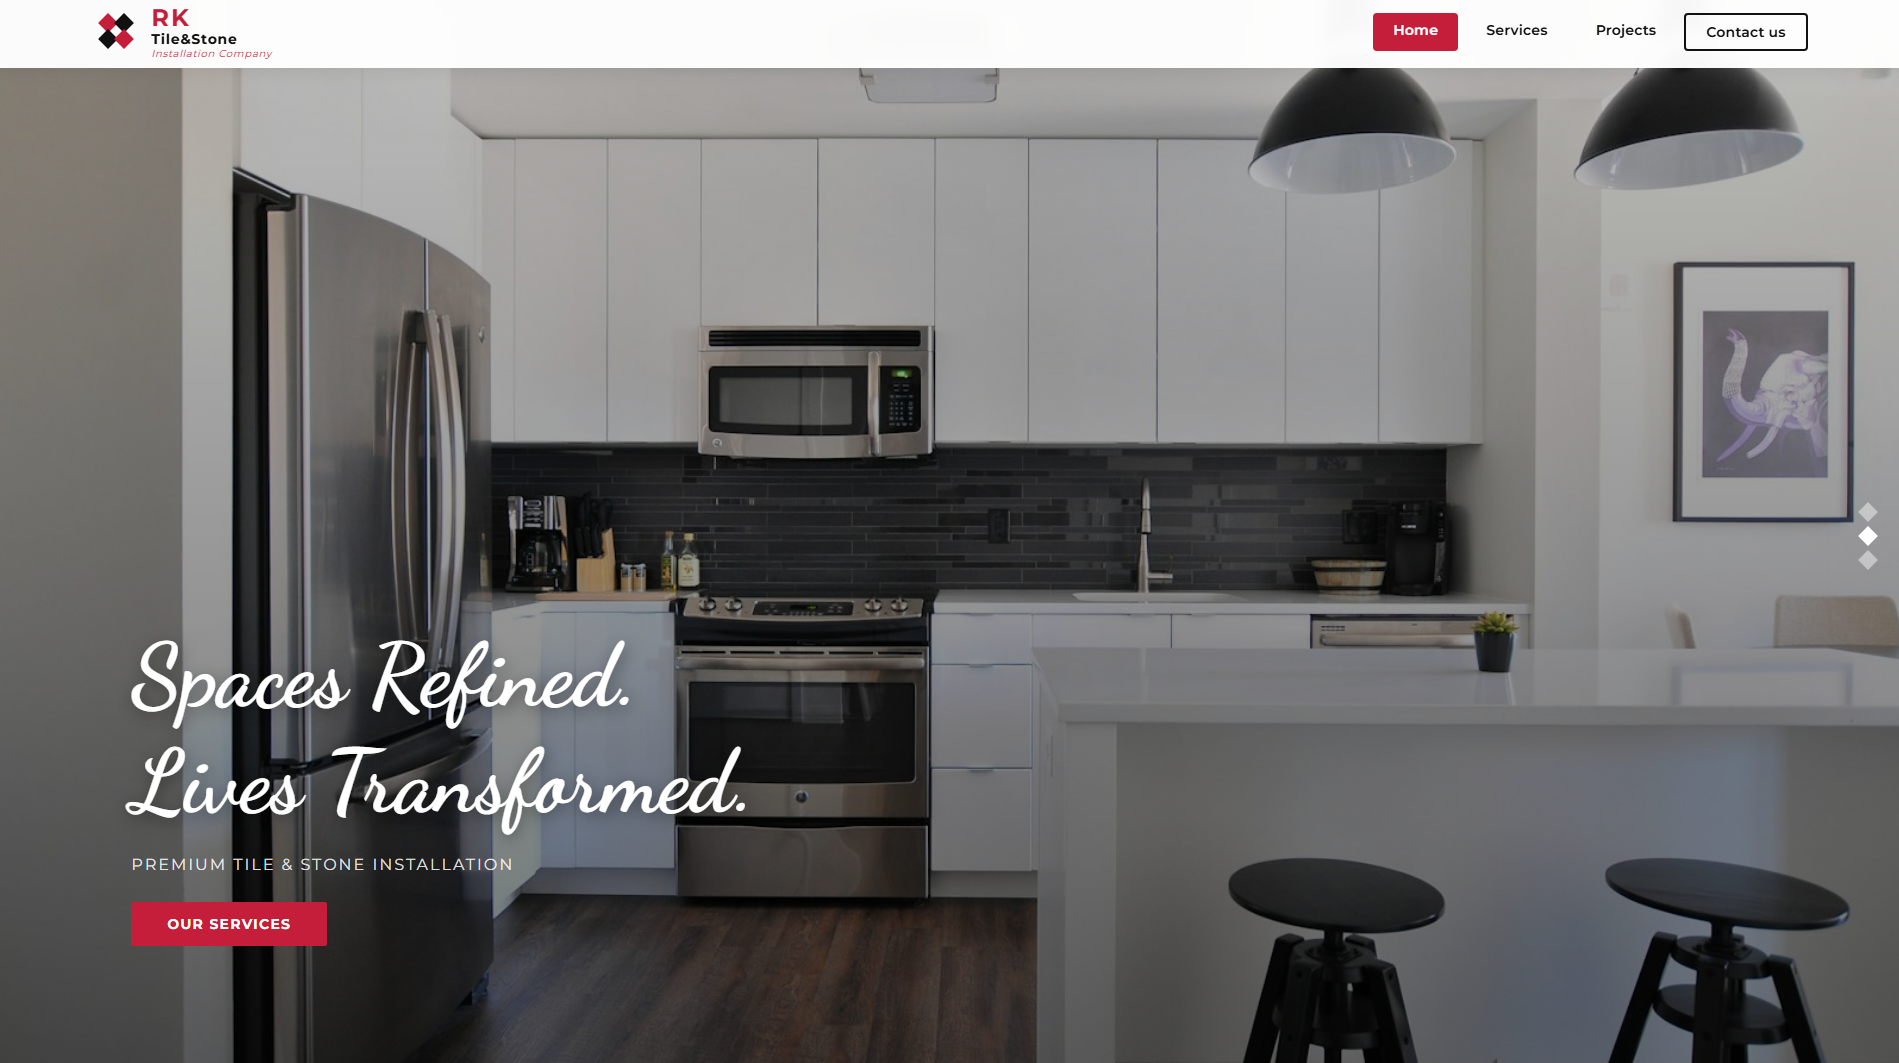
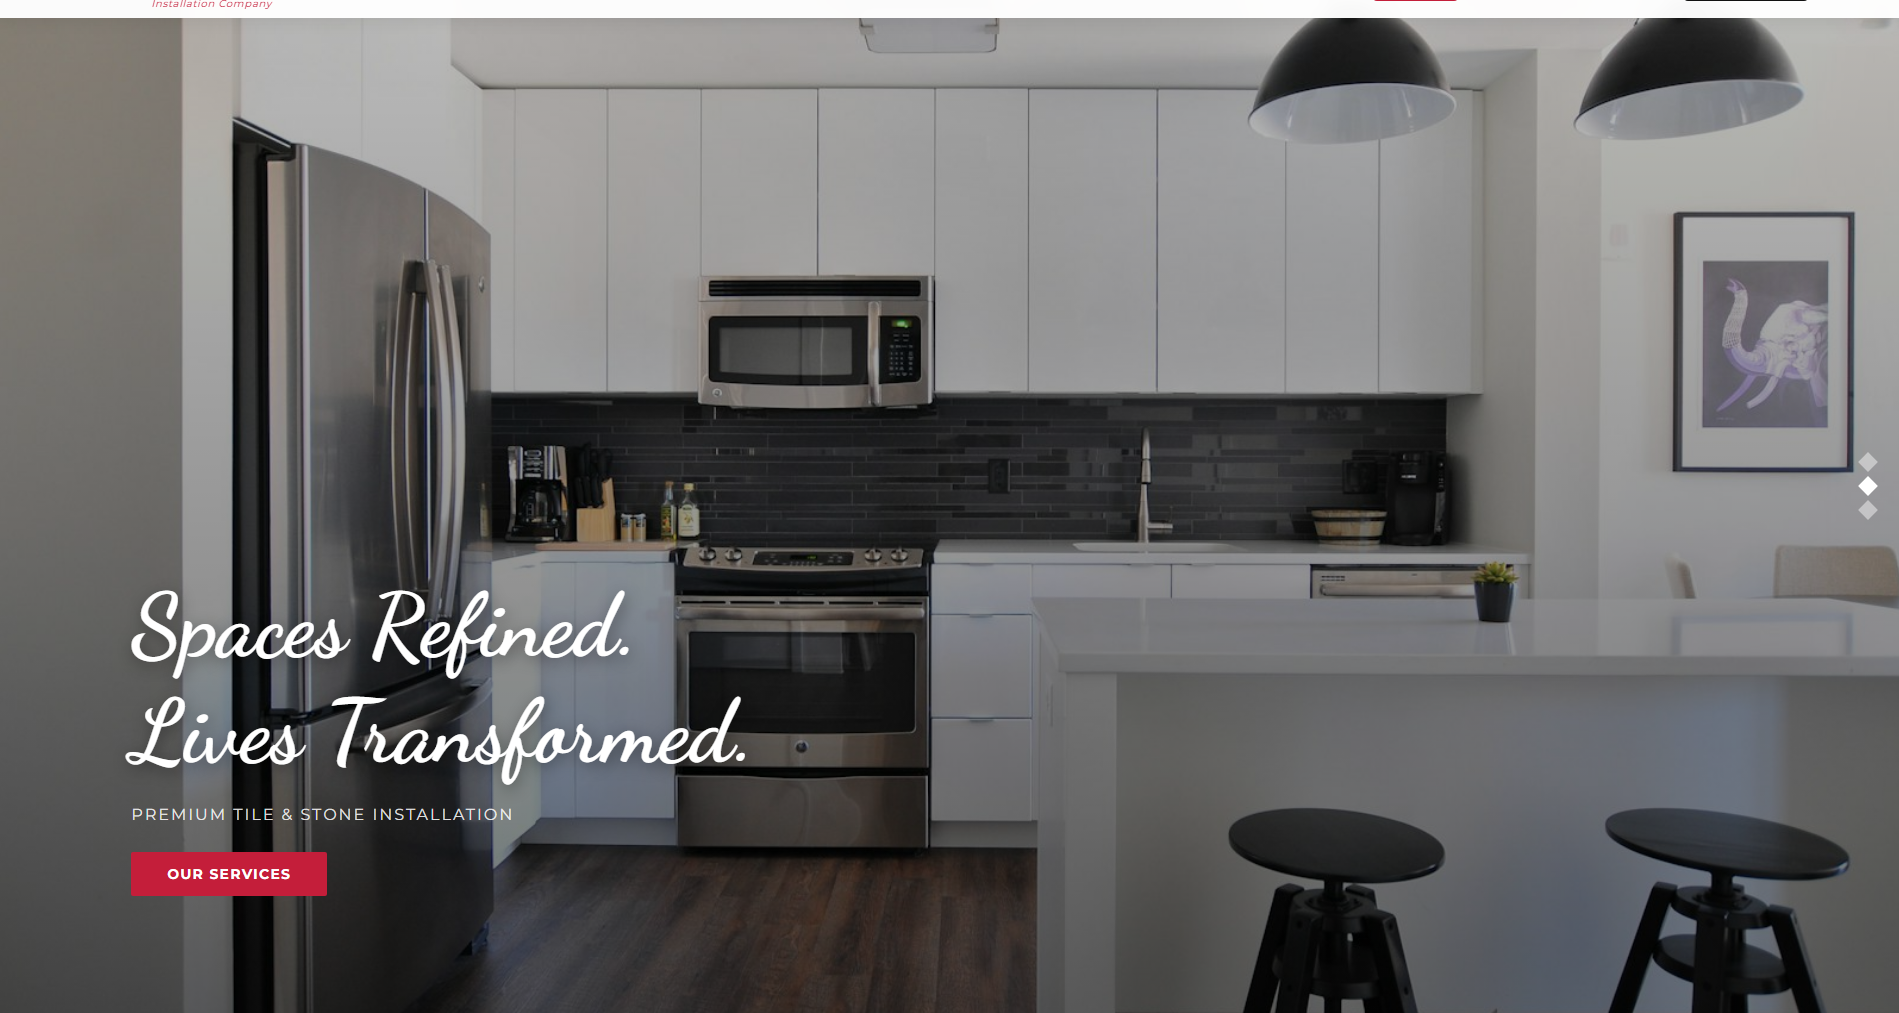
Crop screenshots to focus on content; adjust preview aspect ratio to 16:9

diff --git a/style.css b/style.css
@@ -493,7 +493,7 @@ button {
 .project-iframe-wrap {
   position: relative;
   width: 100%;
-  padding-top: 60%;
+  padding-top: 56.25%;
   overflow: hidden;
   background: var(--surface2);
 }
@@ -505,7 +505,7 @@ button {
   width: 100%;
   height: 100%;
   object-fit: cover;
-  object-position: top center;
+  object-position: center center;
   display: block;
 }
 